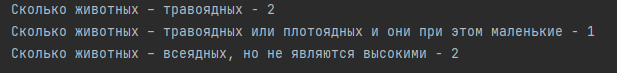
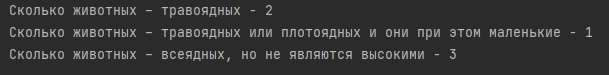
Change rule "Сколько животных – всеядных, но не являются высокими"

diff --git a/README.md b/README.md
@@ -75,7 +75,7 @@
 | --------------------------------------- | --------------------------------------------------------------------- |
 | ТРАВОЯДНОЕ                              | Сколько животных – травоядных                                         |
 | (ТРАВОЯДНОЕ ИЛИ ПЛОТОЯДНОЕ) И МАЛЕНЬКОЕ | Сколько животных – травоядных или плотоядных и они при этом маленькие |
-| ВСЕЯДНОЕ И НЕ ВЫСОКОЕ                   | Сколько животных – всеядных, но не являются высокими                  |
+| ВСЕЯДНОЕ И (НЕВЫСОКОЕ ИЛИ МАЛЕНЬКОЕ)                   | Сколько животных – всеядных, но не являются высокими                  |
 
 #### Результат работы программ
 ![Вывод информации в консоль](img/output.png)
